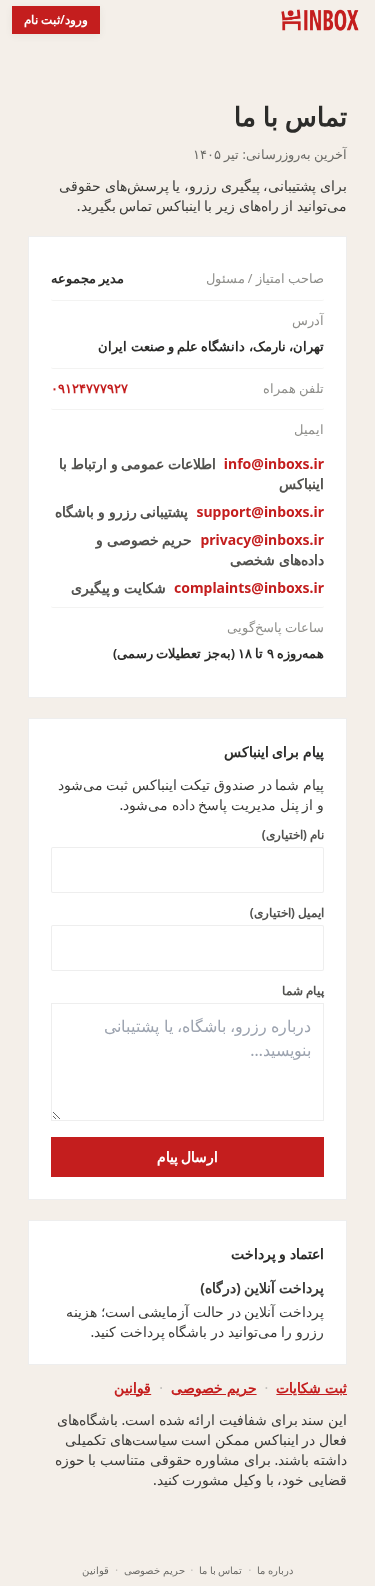
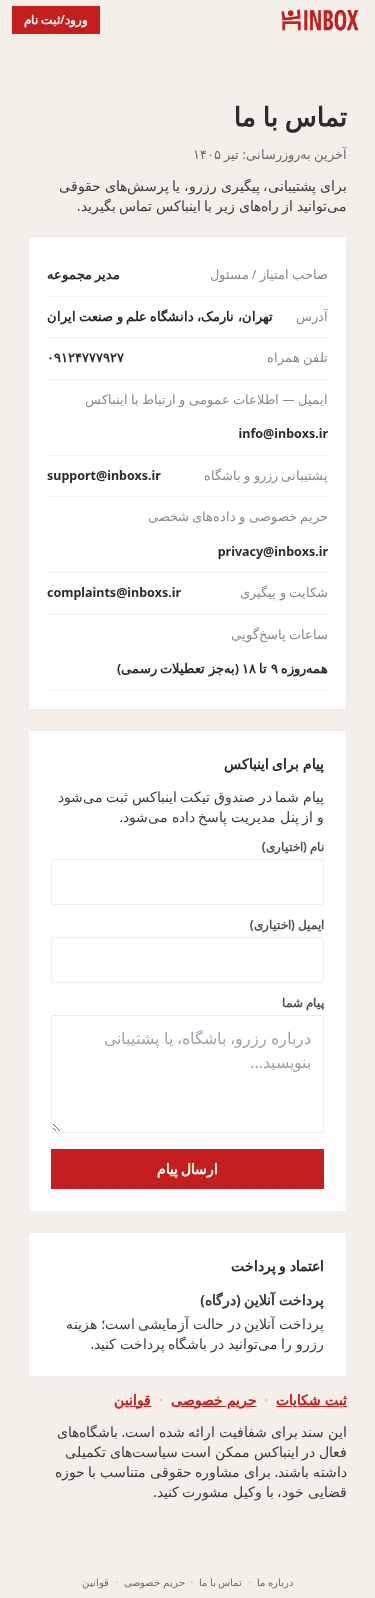
Contact (/contact): SoT .card .kv rows, one email per row — visual only

diff --git a/app/pages/contact.vue b/app/pages/contact.vue
@@ -161,19 +161,14 @@ useHead({
       </div>
 
       <div
+        v-for="(row, ri) in contactEmails"
+        :key="row.address"
         class="canva-contact-row"
         style="border-radius: 2px;"
       >
-        <dt class="font-bold text-brand-navy">{{ t('contact.emailLabel') }}</dt>
-        <dd class="space-y-2">
-          <p
-            v-for="row in contactEmails"
-            :key="row.address"
-            class="text-start text-sm"
-          >
-            <a :href="`mailto:${row.address}`" class="text-brand-primary" dir="ltr">{{ row.address }}</a>
-            <span class="ms-2 text-brand-gray-600">{{ t(row.labelKey) }}</span>
-          </p>
+        <dt class="font-bold text-brand-navy">{{ ri === 0 ? `${t('contact.emailLabel')} — ${t(row.labelKey)}` : t(row.labelKey) }}</dt>
+        <dd>
+          <a :href="`mailto:${row.address}`" class="text-brand-primary" dir="ltr">{{ row.address }}</a>
         </dd>
       </div>
 
@@ -281,3 +276,15 @@ useHead({
   </div>
   </div>
 </template>
+
+<style scoped>
+/* SoT pages.contact .card .kv: label (silver) right, value bold left, hairline rows */
+.canva-contact-kv { background: #fff; border: 1px solid rgba(44,44,42,.1); padding: 18px; margin-top: 20px; }
+.canva-contact-kv :deep(.canva-contact-row), .canva-contact-kv .canva-contact-row {
+  display: flex; justify-content: space-between; align-items: baseline; gap: 12px;
+  font-size: 12.5px; padding: 9px 0; border-bottom: 1px solid rgba(44,44,42,.06);
+  background: transparent; box-shadow: none; border-radius: 0 !important; margin: 0;
+}
+.canva-contact-kv .canva-contact-row dt { font-weight: 400; color: #8a8a86; }
+.canva-contact-kv .canva-contact-row dd, .canva-contact-kv .canva-contact-row dd a { font-weight: 700; color: #2c2c2a; margin: 0; }
+</style>
